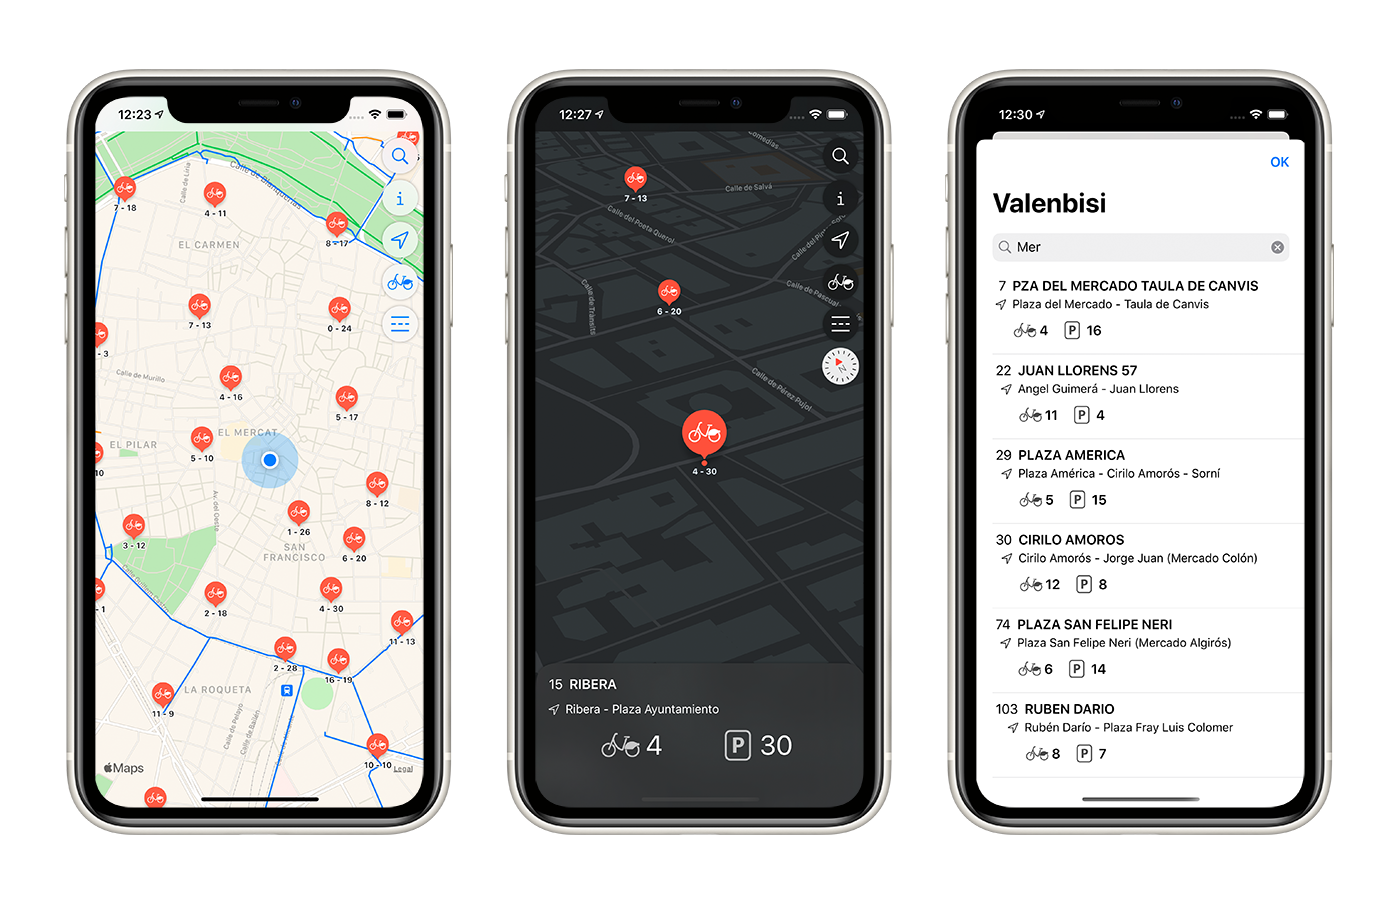
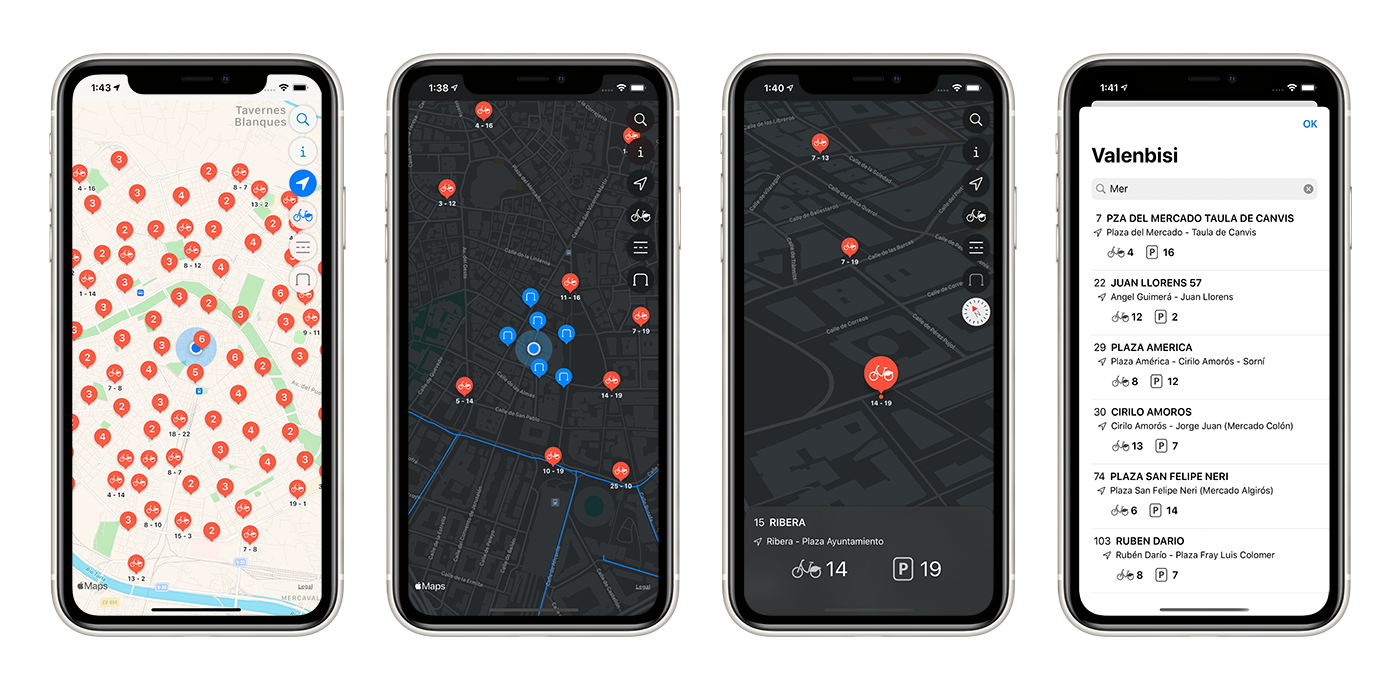
Update screenshots and readme file

diff --git a/README.md b/README.md
@@ -1,7 +1,4 @@
-<p align="center">
-    <img src="BiciValenciaScreenshots.png"
-      width=700>
-</p>
+![BiciValencia Screenshots](/BiciValenciaScreenshots.png)
 
 # BiciValencia App
 
@@ -23,7 +20,7 @@ A simple iOS app that displays information on bikes in Valencia. It can be downl
 
 ## Outline
 
-The app shows a map centered in Valencia, displaying the Valenbisi stations, and the bike network.
+The app shows a map centered in Valencia, displaying the Valenbisi stations, bike racks, and the bike network.
 
 The data is provided by the Valencia City Council's open data portal to show the lastest available information.
 
